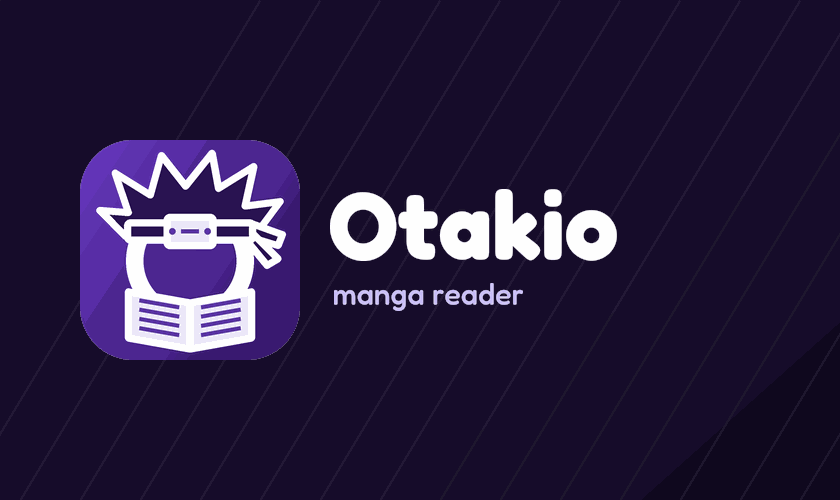
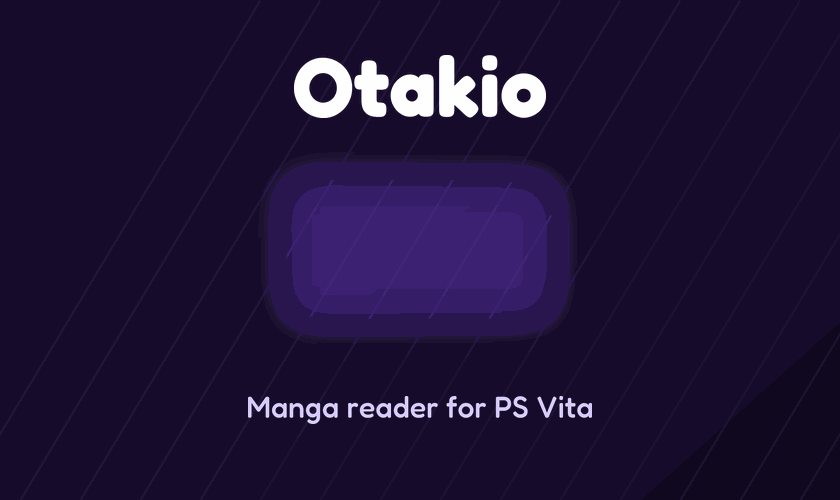
Catalog validation, LF line endings, native extension fix, new LiveArea
- tools/validate_repo.py: index.json, unique ids, sha256 vs committed files, Lua compiles (also run by CI)
- .gitattributes (LF everywhere); gen_repo.py hashes LF bytes so Windows checkouts can't produce wrong pins
- gen_repo_readme.py writes a short README plus SOURCES.md (one collapsible table per language)
- Native extensions keep their extension id (Open source and status tracking work again)
- Icon centered inside the Vita's round bubble; LiveArea layout keeps the start gate clear
- Dependabot keeps the pinned GitHub Actions up to date

Changed region(s): [[0.0929, 0.27, 0.7429, 0.72], [0.3405, 0.09, 0.65, 0.24], [0.2786, 0.78, 0.7119, 0.84]]

diff --git a/tools/gen_assets.py b/tools/gen_assets.py
@@ -132,17 +132,15 @@ ACCENT2 = (46, 18, 92)
 BG = (20, 13, 34)
 
 
-def mascot_mark(size):
-    """Rounded square with a capital "O" drawn in simple lines: spiky hair on top, a ninja-style headband with a
-    metal plate across the forehead and an open manga at the bottom.
-    One outline width (white) for every shape, one dark fill (hair, band), one light fill (plate, pages)."""
+def mark_figure(size):
+    """The mascot alone on a transparent canvas: a capital "O" drawn in simple lines, with spiky hair on top, a
+    ninja-style headband with a metal plate across the forehead and an open manga at the bottom.
+    One outline width (white) for every shape, one dark fill (hair, band), one light fill (plate, pages).
+    Returned cropped to its own outline, so callers can center it exactly."""
     big = size * S
     u = big / 100.0
-    img = Image.new("RGBA", (big, big), (0, 0, 0, 0))
-    grad = gradient((big, big), ACCENT1, ACCENT2)
-    mask = Image.new("L", (big, big), 0)
-    ImageDraw.Draw(mask).rounded_rectangle([0, 0, big - 1, big - 1], radius=int(big * 0.24), fill=255)
-    img.paste(grad, (0, 0), mask)
+    pad = int(6 * u)
+    img = Image.new("RGBA", (big + 2 * pad, big + 2 * pad), (0, 0, 0, 0))
     d = ImageDraw.Draw(img)
     line = max(2, int(3.4 * u))  # every outline
     fine = max(1, int(2.0 * u))  # every inner detail
@@ -151,25 +149,28 @@ def mascot_mark(size):
     detail = (88, 56, 160, 255)
 
     def P(*pts):
-        return [(x * u, y * u) for x, y in pts]
+        return [(x * u + pad, y * u + pad) for x, y in pts]
 
     def shape(pts, fill):
         d.polygon(pts, fill=fill)
         d.line(pts + [pts[0], pts[1]], fill=W, width=line, joint="curve")
 
+    def box(x0, y0, x1, y1):
+        return [x0 * u + pad, y0 * u + pad, x1 * u + pad, y1 * u + pad]
+
     # the "O": a thick white ring
     cx, cy, r, ring = 50, 55, 25, 8
-    d.ellipse([(cx - r - ring / 2) * u, (cy - r - ring / 2) * u, (cx + r + ring / 2) * u, (cy + r + ring / 2) * u], outline=W, width=int(ring * u))
-    # spiky hair
-    shape(P((21, 44), (9, 32), (22, 33), (16, 15), (32, 25), (37, 7), (48, 21), (60, 6), (63, 22), (79, 12), (75, 30),
-            (91, 28), (79, 44)), dark)
+    d.ellipse(box(cx - r - ring / 2, cy - r - ring / 2, cx + r + ring / 2, cy + r + ring / 2), outline=W, width=int(ring * u))
+    # spiky hair (symmetric around x=50 so the mark centers cleanly)
+    shape(P((21, 44), (10, 32), (22, 32), (16, 15), (33, 24), (40, 7), (50, 20), (60, 7), (67, 24), (84, 15),
+            (78, 32), (90, 32), (79, 44)), dark)
     # headband: knot tails, band, metal plate (two rivets + engraved line)
-    shape(P((78, 38), (92, 43), (90, 48), (77, 44)), dark)
-    shape(P((78, 42), (90, 54), (85, 57), (76, 46)), dark)
-    d.rounded_rectangle([20 * u, 36 * u, 80 * u, 47 * u], radius=int(3 * u), fill=dark, outline=W, width=line)
-    d.rounded_rectangle([38 * u, 33.5 * u, 62 * u, 49.5 * u], radius=int(3 * u), fill=light, outline=W, width=line)
+    shape(P((78, 38), (90, 43), (88, 48), (77, 44)), dark)
+    shape(P((78, 42), (88, 53), (83, 56), (76, 46)), dark)
+    d.rounded_rectangle(box(20, 36, 80, 47), radius=int(3 * u), fill=dark, outline=W, width=line)
+    d.rounded_rectangle(box(38, 33.5, 62, 49.5), radius=int(3 * u), fill=light, outline=W, width=line)
     for rx in (42, 58):
-        d.ellipse([(rx - 1.5) * u, (41.5 - 1.5) * u, (rx + 1.5) * u, (41.5 + 1.5) * u], fill=detail)
+        d.ellipse(box(rx - 1.5, 41.5 - 1.5, rx + 1.5, 41.5 + 1.5), fill=detail)
     d.line(P((46, 41.5), (54, 41.5)), fill=detail, width=fine)
     # open manga at the bottom (bigger than the band, overlapping the lower ring)
     shape(P((50, 74), (22, 69), (22, 90), (50, 95)), light)
@@ -178,7 +179,34 @@ def mascot_mark(size):
         y = 75.5 + k * 4.2
         d.line(P((27, y - 2.6), (45, y + 0.6)), fill=detail, width=fine)
         d.line(P((55, y + 0.6), (73, y - 2.6)), fill=detail, width=fine)
-    return img.resize((size, size), Image.LANCZOS)
+    img = img.crop(img.getbbox())
+    return img.resize((max(1, img.width // S), max(1, img.height // S)), Image.LANCZOS)
+
+
+def fit_figure(box_size, max_radius=None, fill=0.8):
+    """Scales the figure so it fills `fill` of a square box (or, with max_radius, so that no opaque pixel is farther
+    than max_radius from the center: the Vita masks icon0 with a circle) and returns it with its offset."""
+    ref = mark_figure(200)
+    scale = box_size * fill / max(ref.size)
+    if max_radius:
+        a = ref.getchannel("A").load()
+        w, h = ref.size
+        far = max(math.hypot(x - w / 2, y - h / 2) for y in range(0, h, 2) for x in range(0, w, 2) if a[x, y] > 40)
+        scale = min(scale, max_radius / far)
+    fig = mark_figure(max(8, int(200 * scale)))
+    return fig, ((box_size - fig.width) // 2, (box_size - fig.height) // 2)
+
+
+def mascot_mark(size):
+    """Rounded square in the accent gradient with the figure centered inside (in-app logos)"""
+    img = Image.new("RGBA", (size * S, size * S), (0, 0, 0, 0))
+    mask = Image.new("L", img.size, 0)
+    ImageDraw.Draw(mask).rounded_rectangle([0, 0, img.width - 1, img.height - 1], radius=int(img.width * 0.24), fill=255)
+    img.paste(gradient(img.size, ACCENT1, ACCENT2), (0, 0), mask)
+    img = img.resize((size, size), Image.LANCZOS)
+    fig, (x, y) = fit_figure(size, fill=0.84)
+    img.alpha_composite(fig, (x, y))
+    return img
 
 
 TITLE_FONT = os.path.join(ROOT, "tools", "fonts", "Fredoka.ttf")  # SIL OFL 1.1, see tools/fonts/OFL-Fredoka.txt
@@ -213,30 +241,39 @@ def logo(width, height, path, mark=None):
 
 def livearea():
     sce = os.path.join(SRC, "sce_sys")
-    m = mascot_mark(128).convert("RGBA")
-    bg = Image.new("RGBA", (128, 128), BG + (255,))
-    bg.paste(m, (0, 0), m)
-    bg.convert("P", palette=Image.ADAPTIVE, colors=255).save(os.path.join(sce, "icon0.png"))
-    # LiveArea background 840x500
-    la = gradient((840, 500), (30, 16, 56), (14, 8, 28)).convert("RGBA")
-    lines = Image.new("RGBA", la.size, (0, 0, 0, 0))
-    d = ImageDraw.Draw(lines)
+    # bubble icon 128x128: the Vita shows it inside a circle, so the background fills the square and the figure
+    # stays inside the inscribed circle, centered on its real outline
+    icon = gradient((128, 128), ACCENT1, ACCENT2).convert("RGBA")
+    fig, (x, y) = fit_figure(128, max_radius=55, fill=0.86)
+    icon.alpha_composite(fig, (x, y))
+    icon.convert("P", palette=Image.ADAPTIVE, colors=255).save(os.path.join(sce, "icon0.png"))
+
+    # LiveArea "a1": background 840x500 with the start gate (280x158) drawn by the system in its middle
+    # (x 280-560, y 171-329), so the background keeps that band free: title on top, tagline below
+    W_, H_ = 840, 500
+    la = gradient((W_, H_), (30, 16, 56), (14, 8, 28)).convert("RGBA")
+    deco = Image.new("RGBA", la.size, (0, 0, 0, 0))
+    d = ImageDraw.Draw(deco)
     for i in range(16):
         x = 60 * i - 40
-        d.line([x, 500, x + 300, 0], fill=(255, 255, 255, 14), width=2)
-    la = Image.alpha_composite(la, lines)
-    big = mascot_mark(220)
-    la.paste(big, (80, 140), big)
-    t = text_img("Otakio", 96)
-    sub = text_img("manga reader", 30, (200, 190, 255, 255), "Medium")
-    top = 250 - (t.height + 22 + sub.height) // 2
-    la.paste(t, (330, top), t)
-    la.paste(sub, (334, top + t.height + 22), sub)
+        d.line([x, H_, x + 300, 0], fill=(255, 255, 255, 12), width=2)
+    # soft glow behind the gate so it reads as the centerpiece
+    glow = Image.new("RGBA", la.size, (0, 0, 0, 0))
+    ImageDraw.Draw(glow).rounded_rectangle([262, 156, 578, 344], radius=30, fill=ACCENT1 + (120,))
+    glow = glow.filter(ImageFilter.GaussianBlur(26))
+    la = Image.alpha_composite(Image.alpha_composite(la, deco), glow)
+    # top band: the name, centered (the mascot is on the gate below)
+    t = text_img("Otakio", 84)
+    la.alpha_composite(t, ((W_ - t.width) // 2, 86 - t.height // 2))
+    # bottom band: tagline, centered
+    sub = text_img("Manga reader for PS Vita", 30, (214, 204, 255, 255), "Medium")
+    la.alpha_composite(sub, ((W_ - sub.width) // 2, 410 - sub.height // 2))
     la.convert("P", palette=Image.ADAPTIVE, colors=255).save(os.path.join(sce, "livearea", "contents", "bg.png"))
-    # startup gate 280x158
+
+    # start gate 280x158: gradient card with the mascot centered (the name is already on the background)
     st = gradient((280, 158), ACCENT1, ACCENT2).convert("RGBA")
-    t = text_img("Otakio", 44)
-    st.paste(t, ((280 - t.width) // 2, (158 - t.height) // 2), t)
+    fig, _ = fit_figure(132, fill=1.0)
+    st.alpha_composite(fig, ((280 - fig.width) // 2, (158 - fig.height) // 2))
     st.convert("P", palette=Image.ADAPTIVE, colors=255).save(os.path.join(sce, "livearea", "contents", "startup.png"))
 
 

diff --git a/tools/gen_repo_readme.py b/tools/gen_repo_readme.py
@@ -1,8 +1,9 @@
-"""Writes repo/README.md (the extension repository's front page) from repo/index.json.
+"""Writes repo/README.md (the extension repository's front page, with a per-language summary) and repo/SOURCES.md
+(the full source list, one collapsible section per language) from repo/index.json.
 
   python tools/gen_repo_readme.py
 
-Run it after gen_repo.py / probe_sources.py so the source list and the status column stay current.
+Run it after gen_repo.py / probe_sources.py so the lists and the status column stay current.
 """
 import collections, json, os
 
@@ -49,20 +50,30 @@ tab offers it with one click.
 - **Removal requests:** see [REMOVAL.md](REMOVAL.md). Removed sources are listed in [REMOVED.md](REMOVED.md).
 - Support the authors: buy official releases and use official services.
 
-## Summary
+## Sources
 
 {summary}
 
-Status:
+**[Full list of sources, with site, status and type → SOURCES.md](SOURCES.md)**
+
+The status comes from the daily automated check (`health.json`). On the Vita, each source's dot also adjusts itself
+with use.
+"""
+
+STATUS_LEGEND = """Status:
 - **🟢 works:** listing, chapters and pages tested;
 - **🟡 partial:** something fails;
 - **🔴 down:** the site doesn't answer or blocks readers;
-- **⚪ untested.**
+- **⚪ untested.**"""
 
-The status below comes from the latest automated check (`health.json`). On the Vita, each source's dot also adjusts
-itself with use.
+SOURCES_HEADER = """# Sources
 
-## Sources
+Every source in the [Otakio extension repository](README.md), by language. Working sources come first.
+Last automated check: {checked}.
+
+{legend}
+
+**Languages:** {toc}
 """
 
 FOOTER = """
@@ -73,6 +84,7 @@ FOOTER = """
 | `index.json` | catalog read by the app (id, name, language, version, file, status) |
 | `extensions/` | published extensions, one `.lua` per source |
 | `native/` | source code of the native extensions (sites with their own API or layout) |
+| `SOURCES.md` | every source by language, with site, status and type (generated) |
 | `health.json` | latest automated test result of each source, with `deadSince`/`lastOk` history |
 | `removed.json`, `REMOVED.md` | sources taken out of the catalog, with date and reason |
 
@@ -122,37 +134,48 @@ The catalog is generated, tested and pruned by tools in the app repository (`too
 """
 
 
+def anchor(text):
+    """GitHub heading anchor: lower case, spaces to dashes, punctuation dropped"""
+    out = "".join(c for c in text.lower() if c.isalnum() or c in " -")
+    return out.replace(" ", "-")
+
+
 def main():
     index = json.load(open(os.path.join(REPO, "index.json"), encoding="utf-8"))
     exts = index["extensions"]
     by_lang = collections.defaultdict(list)
     for e in exts:
         by_lang[e["lang"]].append(e)
-    ok = sum(1 for e in exts if e.get("health") == "ok")
+    working = lambda items: sum(1 for e in items if e.get("health") == "ok")
+    groups = [(code, label, by_lang[code]) for code, label in LANGS if by_lang.get(code)]
+
+    # README.md: short summary table linking into SOURCES.md
     lines = ["| Language | Sources | 🟢 working |", "|---|---:|---:|"]
-    for code, label in LANGS:
-        items = by_lang.get(code, [])
-        if items:
-            lines.append(f"| {label} | {len(items)} | {sum(1 for e in items if e.get('health') == 'ok')} |")
-    lines.append(f"| **Total** | **{len(exts)}** | **{ok}** |")
-    out = [HEADER.format(summary="\n".join(lines))]
-    for code, label in LANGS:
-        items = by_lang.get(code, [])
-        if not items:
-            continue
-        order = {"ok": 0, "partial": 1, "relay": 1, None: 2, "dead": 3}
+    for code, label, items in groups:
+        lines.append(f"| [{label}](SOURCES.md#{anchor(label)}) | {len(items)} | {working(items)} |")
+    lines.append(f"| **Total** | **{len(exts)}** | **{working(exts)}** |")
+    with open(os.path.join(REPO, "README.md"), "w", encoding="utf-8", newline="\n") as fh:
+        fh.write(HEADER.format(summary="\n".join(lines)) + FOOTER.format())
+
+    # SOURCES.md: one collapsible table per language
+    checked = max((e.get("checked") or "" for e in exts), default="") or "never"
+    toc = " · ".join(f"[{label}](#{anchor(label)}) ({len(items)})" for code, label, items in groups)
+    out = [SOURCES_HEADER.format(checked=checked, legend=STATUS_LEGEND, toc=toc)]
+    order = {"ok": 0, "partial": 1, "relay": 1, None: 2, "dead": 3}
+    for code, label, items in groups:
         items.sort(key=lambda e: (order.get(e.get("health"), 2), e["name"].lower()))
-        out.append(f"\n### {label} ({len(items)})\n")
+        out.append(f"\n## {label}\n")
+        out.append(f"<details>\n<summary>{len(items)} sources, {working(items)} working</summary>\n")
         out.append("| Source | Site | Status | Type | 18+ |")
         out.append("|---|---|---|---|:---:|")
         for e in items:
             host = e.get("baseUrl", "").replace("https://", "").replace("http://", "").rstrip("/")
             out.append(f"| {e['name'].replace('|', '/')} | {host} | {STATUS.get(e.get('health'), e.get('health'))} | "
                        f"{ORIGIN.get(e.get('origin'), e.get('origin'))} | {'yes' if e.get('nsfw') else ''} |")
-    out.append(FOOTER.format())
-    with open(os.path.join(REPO, "README.md"), "w", encoding="utf-8", newline="\n") as fh:
-        fh.write("\n".join(out))
-    print("repo/README.md:", len(exts), "extensions")
+        out.append("\n</details>")
+    with open(os.path.join(REPO, "SOURCES.md"), "w", encoding="utf-8", newline="\n") as fh:
+        fh.write("\n".join(out) + "\n")
+    print("repo/README.md + repo/SOURCES.md:", len(exts), "extensions")
 
 
 if __name__ == "__main__":

diff --git a/tools/validate_repo.py b/tools/validate_repo.py
@@ -1,0 +1,82 @@
+"""Validates the extension repository (repo/ or --repo DIR) before it is published.
+
+  python tools/validate_repo.py [--repo DIR] [--git]
+
+Fails (exit 1) on:
+- index.json that doesn't parse or lacks the "extensions" list;
+- duplicate ids, or entries missing id/name/lang/version/baseUrl, or with neither "file" nor "url";
+- a "file" that doesn't exist, or whose sha256 differs from index.json (hashed with LF line endings, as git stores
+  it; --git compares against the committed blob instead of the working copy);
+- a .lua file that doesn't compile (compiled with LuaJIT, never run);
+- a file with an "-- @id" header that doesn't match its entry.
+"""
+import argparse, hashlib, json, os, re, subprocess, sys
+
+ROOT = os.path.dirname(os.path.dirname(os.path.abspath(__file__)))
+REQUIRED = ("id", "name", "lang", "version", "baseUrl")
+HEADER_ID = re.compile(rb"^--\s*@id\s+(\S+)", re.M)
+
+
+def main():
+    ap = argparse.ArgumentParser()
+    ap.add_argument("--repo", default=os.path.join(ROOT, "repo"))
+    ap.add_argument("--git", action="store_true", help="hash the committed blob (HEAD) instead of the working copy")
+    args = ap.parse_args()
+    from lupa import luajit21
+    L = luajit21.LuaRuntime(unpack_returned_tuples=True)
+    compile_lua = L.eval("function(src, name) local f, err = loadstring(src, name) return err end")
+
+    errors = []
+    try:
+        index = json.load(open(os.path.join(args.repo, "index.json"), encoding="utf-8"))
+        entries = index["extensions"]
+    except Exception as ex:
+        print("index.json:", ex)
+        sys.exit(1)
+
+    seen = set()
+    files = 0
+    for e in entries:
+        ext_id = e.get("id", "?")
+        for k in REQUIRED:
+            if e.get(k) in (None, ""):
+                errors.append(f"{ext_id}: missing '{k}'")
+        if ext_id in seen:
+            errors.append(f"{ext_id}: duplicate id")
+        seen.add(ext_id)
+        if not e.get("file"):
+            if not e.get("url"):
+                errors.append(f"{ext_id}: neither 'file' nor 'url'")
+            continue
+        files += 1
+        path = os.path.join(args.repo, e["file"])
+        if args.git:
+            r = subprocess.run(["git", "-C", args.repo, "show", "HEAD:" + e["file"]], capture_output=True)
+            if r.returncode:
+                errors.append(f"{ext_id}: {e['file']} is not committed")
+                continue
+            data = r.stdout
+        elif not os.path.isfile(path):
+            errors.append(f"{ext_id}: {e['file']} not found")
+            continue
+        else:
+            data = open(path, "rb").read().replace(b"\r\n", b"\n")
+        if not e.get("sha256"):
+            errors.append(f"{ext_id}: no sha256")
+        elif hashlib.sha256(data).hexdigest() != e["sha256"]:
+            errors.append(f"{ext_id}: sha256 mismatch for {e['file']}")
+        err = compile_lua(data.decode("utf-8", "replace"), "=" + e["file"])
+        if err:
+            errors.append(f"{ext_id}: does not compile: {err}")
+        m = HEADER_ID.search(data[:600])
+        if m and m.group(1).decode() != ext_id:
+            errors.append(f"{ext_id}: header says @id {m.group(1).decode()}")
+
+    for msg in errors:
+        print("ERROR", msg)
+    print(f"{len(entries)} entries, {files} files checked, {len(errors)} errors")
+    sys.exit(1 if errors else 0)
+
+
+if __name__ == "__main__":
+    main()

diff --git a/tools/gen_repo.py b/tools/gen_repo.py
@@ -251,7 +251,9 @@ def hash_entries(entries, repo_dir):
     for e in entries:
         path = os.path.join(repo_dir, e.get("file") or "")
         if e.get("file") and os.path.isfile(path):
-            e["sha256"] = hashlib.sha256(open(path, "rb").read()).hexdigest()
+            # hash the LF version: that is what git stores (.gitattributes eol=lf) and what the app downloads,
+            # whatever line endings a Windows checkout has on disk
+            e["sha256"] = hashlib.sha256(open(path, "rb").read().replace(b"\r\n", b"\n")).hexdigest()
         else:
             e.pop("sha256", None)
 

diff --git a/CHANGELOG.md b/CHANGELOG.md
@@ -22,8 +22,13 @@ All notable changes to Otakio. Each `## x.y.z` section becomes the notes of the 
 - New source engines for Russian, Japanese and Chinese sites (Grouple, LibGroup, MultiChan, FMReader, NatsuId,
   MangaReader, Liliana) and adult galleries (GalleryAdults).
 
+### Fixed
+- *Open source* and status tracking for Otakio's native extensions (their parsers lost the extension id).
+- Five extensions whose published file didn't match the SHA-256 in the catalog (line endings) and were refused on install.
+
 ### Changed
-- New app icon and logo; consistent button glyphs in the hint bar and dialogs.
+- New app icon (centered inside the Vita's round bubble) and logo; LiveArea reorganized around the start gate;
+  consistent button glyphs in the hint bar and dialogs.
 - The HTML parser no longer loses the rest of a page after a malformed attribute with a stray quote.
 - Cache, library and download folder names are ASCII-safe for non-Latin titles.
 - `param.sfo` is written by `tools/mksfo.py`, and the version comes only from `config.lua`.
